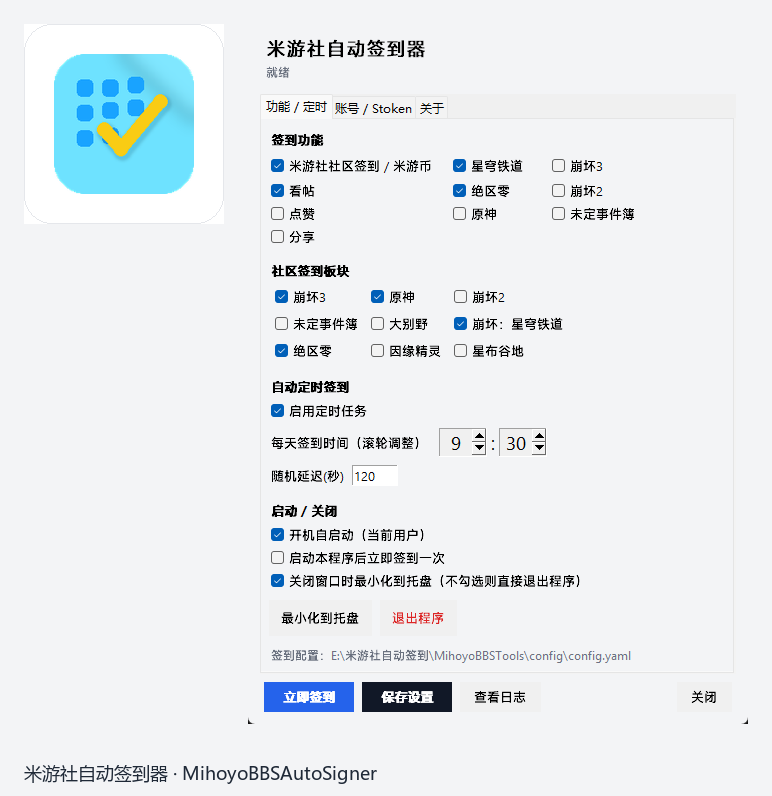
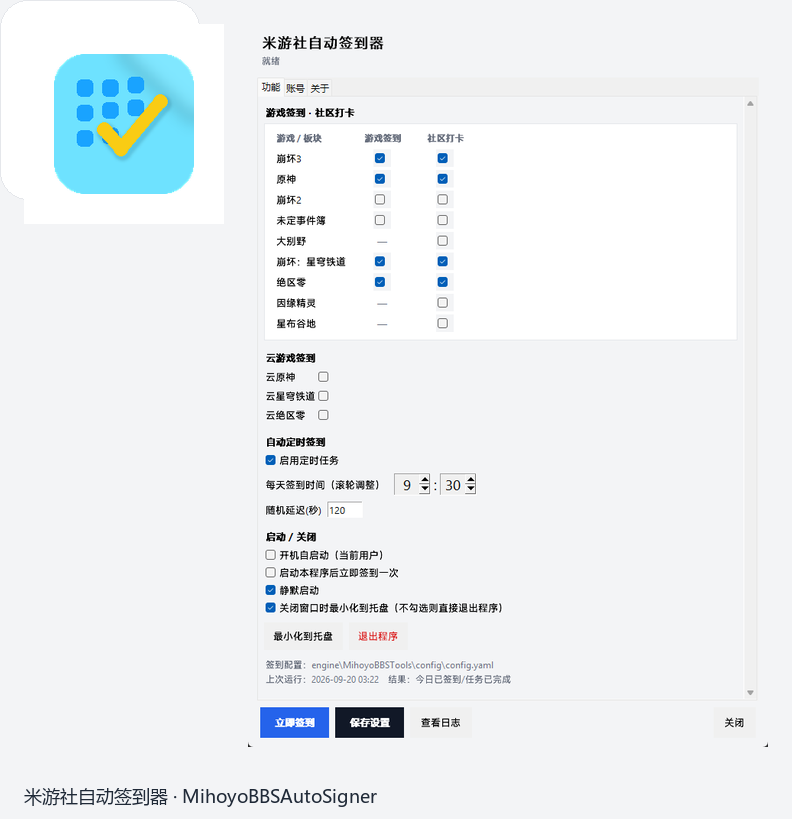
release: v1.2.0 正式版（README 同步现状、更新界面截图）

diff --git a/TrayApp/settings_ui.py b/TrayApp/settings_ui.py
@@ -370,7 +370,7 @@ class SettingsWindow:
         ttk.Label(wrap, textvariable=self.lastrun_var, style="Muted.TLabel").pack(anchor="w")
 
     def _last_run_text(self) -> str:
-        last = self.cfg.last_run or "从未"
+        last = (self.cfg.last_run or "").replace("T", " ")[:16] or "从未"
         status = self.cfg.last_status or ""
         return f"上次运行：{last}    结果：{status}" if status else f"上次运行：{last}"
 

diff --git a/TrayApp/app_config.py b/TrayApp/app_config.py
@@ -7,7 +7,7 @@ from pathlib import Path
 
 APP_NAME = "MihoyoBBSAutoSigner"
 APP_TITLE = "米游社自动签到器"
-APP_VERSION = "1.2.0-beta.8"
+APP_VERSION = "1.2.0"
 
 
 def _exe_or_file_dir() -> Path:

diff --git a/README.md b/README.md
@@ -16,19 +16,33 @@
   <img src="docs/assets/ui-settings.png" alt="settings window" width="420" />
 </p>
 
+<p align="center">
+  <img src="docs/assets/ui-account.png" alt="account window" width="420" />
+</p>
+
 > **个人学习与自用。请遵守米哈游用户协议与当地法律。。非官方项目。**
 
 ## 功能
 
 - 托盘常驻；双击打开设置；可配置关闭时最小化到托盘
-- 社区打卡 / 米游币（看帖、点赞、分享可选）
-- 游戏签到：原神、星穹铁道、绝区零、崩坏2/3、未定等
-- 社区板块勾选；滚轮调整每日签到时间
-- 短信验证码登录一站式自动获取 Stoken
+- 社区打卡（米游币规则见下）
+- 游戏签到：原神、星穹铁道、绝区零、崩坏2/3、未定事件簿
+- 云游戏签到：云原神、云星穹铁道、云绝区零（凭证自动获取，无需手动抓包）
+- 定时签到：到点后当天还没签成功会自动补签；当天签成功不重复执行；失败会自动重试
+- 开机自启动；静默启动（勾选后启动不弹窗，再双击一次程序即可打开窗口）
+- 短信验证码登录；登录后自动获取云游戏凭证
+- 账号区显示 UID 与米游社昵称
+- 首次运行自动生成配置文件，无需手动复制
+
+## 米游币说明（2026-09 现状）
+
+- 米游币现在**只有社区打卡**发放：首日 30 枚，连续签到递增（最高 40 枚/天）
+- 点赞（2025-12）、分享（2026-03）、看帖（2026-03）的米游币奖励均已下线，因此本工具已移除点赞与分享
+- 拿满当日米游币只需完成社区打卡
 
 ## 下载
 
-请到 [Releases](https://github.com/nekwken/MihoyoBBSAutoSigner/releases) 下载完整包（含编译好的 exe 与引擎）。
+请到 [Releases](https://github.com/nekwken/MihoyoBBSAutoSigner/releases) 下载完整包（含编译好的 exe、引擎与内置运行环境）。
 
 解压后运行：
 
@@ -36,16 +50,16 @@
 MihoyoBBSAutoSigner/
 ├── MihoyoBBSAutoSigner.exe    # 托盘程序
 ├── engine/MihoyoBBSTools/     # 签到引擎
+├── runtime/                   # 内置 Python 运行时（免安装）
 ├── README.md
 └── LICENSE
 ```
 
 首次使用：
 
-1. 将 `engine/MihoyoBBSTools/config/config.yaml.example` 复制为同目录 `config.yaml`
-2. 运行 `MihoyoBBSAutoSigner.exe`
-3. 设置 →「账号 / Stoken」短信登录
-4. 勾选功能与板块 → 保存 → 立即签到 / 等待定时
+1. 运行 `MihoyoBBSAutoSigner.exe`（首次会自动生成 `engine/MihoyoBBSTools/config/config.yaml`）
+2. 托盘图标 → 设置 → 「账号」页短信登录
+3. 「功能」页勾选游戏签到 / 社区打卡 / 云游戏签到 → 保存 → 立即签到或等待定时
 
 ## 从源码运行
 
@@ -53,8 +67,6 @@ MihoyoBBSAutoSigner/
 cd TrayApp
 pip install -r requirements.txt
 pip install -r ../engine/MihoyoBBSTools/requirements.txt
-copy ..\engine\MihoyoBBSTools\config\config.yaml.example `
-     ..\engine\MihoyoBBSTools\config\config.yaml
 python main.py
 ```
 

diff --git a/TrayApp/README.md b/TrayApp/README.md
@@ -6,13 +6,15 @@
 
 ## 功能
 
-- 托盘常驻，双击打开设置
-- 社区打卡 / 米游币任务（看帖、点赞、分享可选）
-- 游戏签到：原神、星穹铁道、绝区零、崩坏2/3、未定等
-- 社区板块勾选
-- 定时签到（滚轮调整时间 + 随机延迟）
-- 开机自启动
-- 短信验证码登录（触发 `-3101` 时弹出验证窗口，由用户完成）
+- 托盘常驻，双击打开设置；可配置关闭时最小化到托盘
+- 社区打卡（米游币现仅由打卡发放；看帖/点赞/分享奖励已下线，故点赞、分享功能已移除）
+- 游戏签到：原神、星穹铁道、绝区零、崩坏2/3、未定事件簿
+- 云游戏签到：云原神、云星穹铁道、云绝区零；凭证在签到时自动获取与刷新
+- 定时签到（滚轮调整时间 + 随机延迟）；当天没签成功会自动补签，当天已签成功不重复执行，失败会自动重试
+- 开机自启动；静默启动（勾选后启动不弹窗，再双击一次程序会弹出窗口）
+- 短信验证码登录（触发 `-3101` 时弹出验证窗口，由用户完成；验证窗口居中于设置窗口）
+- 账号区显示 UID 与米游社昵称；提示框居中于设置窗口
+- 首次运行自动生成引擎配置，并自动补齐缺失字段
 - 自动获取/生成 `device_id` / `device_fp`（仅写日志，不在界面展示）
 
 ## 架构
@@ -22,7 +24,8 @@ MihoyoBBSTray (托盘 UI / 调度)
     └── 调用 ../MihoyoBBSTools/main.py （短生命周期子进程）
 ```
 
-账号登录凭证写入 `MihoyoBBSTools/config/config.yaml`，云游戏凭证在签到时自动刷新。
+账号登录凭证与云游戏凭证写入 `MihoyoBBSTools/config/config.yaml`（缺失时自动从 `config.yaml.example` 生成）。
+内置运行环境的发布包中，启动引擎时显式注入引擎目录到 `sys.path`（嵌入式 Python 的隔离模式不会自动包含脚本目录）。
 
 ## 快速开始
 
@@ -32,12 +35,11 @@ pip install -r requirements.txt
 python main.py
 
 # 或使用打包产物
-.\dist\MihoyoBBSTray.exe
+.\dist\MihoyoBBSAutoSigner.exe
 ```
 
-1. 复制 `MihoyoBBSTools/config/config.yaml.example` 为 `config.yaml`
-2. 启动托盘 → 设置 →「账号」页短信登录
-3. 勾选功能与板块 → 保存 → 立即签到 / 等待定时
+1. 启动托盘 → 设置 →「账号」页短信登录（云端凭证随后自动获取）
+2. 「功能」页勾选游戏签到 / 社区打卡 / 云游戏签到 → 保存 → 立即签到或等待定时
 
 ## 打包
 
